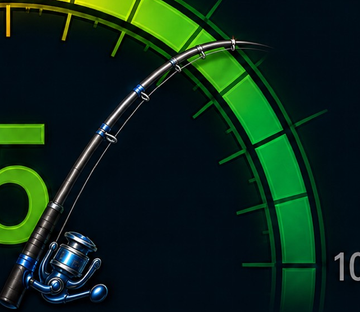
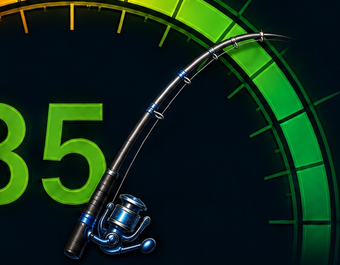
Add files via upload
Update

diff --git a/index.html b/index.html
@@ -751,84 +751,7 @@
       <article aria-label="Τρέχουσες καιρικές συνθήκες" class="weather-card widget" data-live-widget="weather" data-size="wide" data-widget="weather">
        <div class="weather-main">
         <div class="sun-wrap" data-condition="clear-day" data-field="weather.visual" id="weather-visual">
-         <svg aria-label="Ηλιοφάνεια πάνω από τη θάλασσα" class="premium-weather-scene premium-sun" role="img" viewbox="0 0 330 150">
-          <defs>
-           <lineargradient id="hero-sky" x1="0%" x2="0%" y1="0%" y2="100%">
-            <stop offset="0%" stop-color="#04162b">
-            </stop>
-            <stop offset="48%" stop-color="#09365a">
-            </stop>
-            <stop offset="100%" stop-color="#03111f">
-            </stop>
-           </lineargradient>
-           <lineargradient id="hero-mountain" x1="0%" x2="100%" y1="0%" y2="100%">
-            <stop offset="0%" stop-color="#476777">
-            </stop>
-            <stop offset="100%" stop-color="#07111a">
-            </stop>
-           </lineargradient>
-           <lineargradient id="hero-reflection" x1="0%" x2="0%" y1="0%" y2="100%">
-            <stop offset="0%" stop-color="#ffd858" stop-opacity=".8">
-            </stop>
-            <stop offset="100%" stop-color="#ffc738" stop-opacity="0">
-            </stop>
-           </lineargradient>
-           <filter height="260%" id="hero-sun-glow" width="260%" x="-80%" y="-80%">
-            <fegaussianblur result="blur" stddeviation="6">
-            </fegaussianblur>
-            <femerge>
-             <femergenode in="blur">
-             </femergenode>
-             <femergenode in="SourceGraphic">
-             </femergenode>
-            </femerge>
-           </filter>
-          </defs>
-          <rect fill="url(#hero-sky)" height="150" width="330" x="0" y="0">
-          </rect>
-          <g opacity=".82">
-           <path d="M0 104 38 79 73 98 111 68 144 97 187 76 230 99 276 72 330 104V124H0Z" fill="url(#hero-mountain)">
-           </path>
-           <path d="M7 104 42 87 73 104 112 81 145 105 188 89 230 106 278 84 326 106" fill="none" stroke="#b4d8e7" stroke-opacity=".55" stroke-width="2">
-           </path>
-          </g>
-          <rect fill="url(#fd-sea)" height="39" width="330" x="0" y="111">
-          </rect>
-          <g stroke="#4bb6e5" stroke-opacity=".45" stroke-width="1">
-           <path d="M0 120c32-7 62 7 94 0s63 6 95 0 63 7 95 0 31-1 46 1">
-           </path>
-           <path d="M0 132c32-7 62 7 94 0s63 6 95 0 63 7 95 0 31-1 46 1">
-           </path>
-           <path d="M0 143c32-7 62 7 94 0s63 6 95 0 63 7 95 0 31-1 46 1">
-           </path>
-          </g>
-          <ellipse cx="151" cy="125" fill="url(#hero-reflection)" opacity=".45" rx="37" ry="24">
-          </ellipse>
-          <g filter="url(#hero-sun-glow)">
-           <g stroke="#ffc137" stroke-linecap="round">
-            <line stroke-width="3" x1="151" x2="151" y1="4" y2="22">
-            </line>
-            <line stroke-width="3" x1="151" x2="151" y1="88" y2="106">
-            </line>
-            <line stroke-width="3" x1="101" x2="119" y1="55" y2="55">
-            </line>
-            <line stroke-width="3" x1="183" x2="201" y1="55" y2="55">
-            </line>
-            <line stroke-width="2.6" x1="115" x2="128" y1="19" y2="32">
-            </line>
-            <line stroke-width="2.6" x1="174" x2="187" y1="78" y2="91">
-            </line>
-            <line stroke-width="2.6" x1="115" x2="128" y1="91" y2="78">
-            </line>
-            <line stroke-width="2.6" x1="174" x2="187" y1="32" y2="19">
-            </line>
-           </g>
-           <circle cx="151" cy="55" fill="url(#fd-sun-disc)" r="31" stroke="#ffd263" stroke-width="1.5">
-           </circle>
-           <circle cx="151" cy="55" fill="none" r="36" stroke="#ffb21d" stroke-opacity=".25" stroke-width="4">
-           </circle>
-          </g>
-         </svg>
+         <img alt="Ηλιοφάνεια" class="premium-weather-scene premium-sun-photo" src="sun_scene.png"/>
         </div>
         <div class="weather-copy">
          <div class="weather-label" data-field="weather.label" id="weather-condition-label">
@@ -1721,6 +1644,7 @@
       <h2>
        FISHING SCORE
       </h2>
+      <img alt="Fishing Score 85" class="score-master-photo" src="score_master_card.png"/>
       <div aria-label="Fishing Score 85" aria-valuemax="100" aria-valuemin="0" aria-valuenow="85" class="score-gauge" data-score="85" id="fishing-score-gauge" role="meter">
        <svg aria-hidden="true" class="premium-gauge" role="img" viewbox="0 0 300 205">
         <defs>
@@ -2000,7 +1924,7 @@
      <div aria-label="Τεχνικές ψαρέματος" class="technique-grid technique-scroll" id="technique-track" data-scroll-axis="horizontal" data-extensible="true" role="list">
       <button aria-pressed="true" class="technique-card selected" data-rating="5" data-technique="spinning" role="listitem" type="button">
        <span class="technique-icon">
-        <img alt="" class="technique-photo" src="spinning.png"/>
+        <img alt="" class="technique-photo" src="tech_card_spinning.png"/>
        </span>
        <strong>
         SPINNING
@@ -2025,7 +1949,7 @@
       </button>
       <button aria-pressed="false" class="technique-card" data-rating="4" data-technique="lrf" role="listitem" type="button">
        <span class="technique-icon">
-        <img alt="" class="technique-photo" src="lrf.png"/>
+        <img alt="" class="technique-photo" src="tech_card_lrf.png"/>
        </span>
        <strong>
         LRF
@@ -2050,7 +1974,7 @@
       </button>
       <button aria-pressed="false" class="technique-card" data-rating="3" data-technique="english" role="listitem" type="button">
        <span class="technique-icon">
-        <img alt="" class="technique-photo" src="english.png"/>
+        <img alt="" class="technique-photo" src="tech_card_english.png"/>
        </span>
        <strong>
         ΕΓΓΛΕΖΙΚΟ
@@ -2075,7 +1999,7 @@
       </button>
       <button aria-pressed="false" class="technique-card" data-rating="3" data-technique="shore-jigging" role="listitem" type="button">
        <span class="technique-icon">
-        <img alt="" class="technique-photo" src="shore_jig.png"/>
+        <img alt="" class="technique-photo" src="tech_card_shore_jig.png"/>
        </span>
        <strong>
         SHORE JIGGING

diff --git a/style.css b/style.css
@@ -3225,3 +3225,141 @@ body.reference-layout-v3 .weather-side-metrics i,
 body.reference-layout-v3 .metric-row i {
   opacity: 0.95;
 }
+
+/* =========================================================
+   MASTER 100% PUSH — extracted assets + full cards
+========================================================= */
+
+/* Sun scene photo instead of SVG */
+body.reference-layout-v3 .premium-sun-photo,
+body.reference-layout-v3 img.premium-weather-scene {
+  width: 100% !important;
+  height: 72px !important;
+  object-fit: cover !important;
+  object-position: center center !important;
+  border-radius: 8px !important;
+  display: block !important;
+}
+
+/* Score: Master card photo primary */
+body.reference-layout-v3 .score-panel {
+  min-height: 148px !important;
+  max-height: none !important;
+  overflow: hidden !important;
+  display: flex !important;
+  flex-direction: column !important;
+  align-items: center !important;
+  padding: 4px !important;
+}
+body.reference-layout-v3 .score-panel > h2 {
+  display: none !important; /* title is in master photo */
+}
+body.reference-layout-v3 .score-master-photo {
+  width: 100% !important;
+  height: auto !important;
+  max-height: 140px !important;
+  object-fit: contain !important;
+  display: block !important;
+}
+body.reference-layout-v3 .score-panel .score-gauge,
+body.reference-layout-v3 .score-panel .score-caption,
+body.reference-layout-v3 .score-panel .score-stars,
+body.reference-layout-v3 .score-panel .score-rod-photo {
+  display: none !important; /* master photo includes all */
+}
+
+/* Techniques: full Master cards */
+body.reference-layout-v3 .technique-grid.technique-scroll {
+  display: flex !important;
+  gap: 6px !important;
+  justify-content: space-between !important;
+  overflow-x: auto !important;
+  padding: 2px 0 4px !important;
+}
+body.reference-layout-v3 .technique-card {
+  flex: 1 1 0 !important;
+  width: auto !important;
+  min-width: 0 !important;
+  min-height: 0 !important;
+  height: auto !important;
+  padding: 0 !important;
+  border: none !important;
+  background: transparent !important;
+  overflow: visible !important;
+}
+body.reference-layout-v3 .technique-card .technique-icon {
+  width: 100% !important;
+  height: auto !important;
+  min-height: 0 !important;
+  margin: 0 !important;
+  border-radius: 10px !important;
+  overflow: hidden !important;
+  background: transparent !important;
+}
+body.reference-layout-v3 .technique-card .technique-photo {
+  width: 100% !important;
+  height: auto !important;
+  min-height: 110px !important;
+  max-height: 130px !important;
+  object-fit: cover !important;
+  object-position: center top !important;
+  border-radius: 10px !important;
+  display: block !important;
+}
+/* Labels already in Master card image */
+body.reference-layout-v3 .technique-card > strong,
+body.reference-layout-v3 .technique-card .technique-stars,
+body.reference-layout-v3 .technique-card .technique-rating-label,
+body.reference-layout-v3 .technique-card .technique-dot {
+  display: none !important;
+}
+
+/* Header fish from Master */
+body.reference-layout-v3 .top-header .header-fish-asset.brand-fish {
+  width: 64px !important;
+  height: 40px !important;
+  object-fit: contain !important;
+}
+body.reference-layout-v3 .top-header .header-brand-lockup.brand-area {
+  grid-template-columns: 64px minmax(0, 1fr) 64px !important;
+}
+body.reference-layout-v3 .top-header .header-brand-title {
+  font-size: 11px !important;
+  white-space: nowrap !important;
+}
+
+/* Moon */
+body.reference-layout-v3 .moon-panel .moon-main {
+  min-height: 78px !important;
+  grid-template-columns: 70px 1fr !important;
+  gap: 10px !important;
+}
+body.reference-layout-v3 .moon-panel .master-moon-photo {
+  width: 70px !important;
+  height: 70px !important;
+  border-radius: 50% !important;
+  object-fit: cover !important;
+}
+body.reference-layout-v3 .moon-panel .moon-copy strong {
+  font-size: 24px !important;
+}
+body.reference-layout-v3 .moon-panel .moon-copy span {
+  font-size: 9px !important;
+  white-space: normal !important;
+}
+
+/* Activity fish */
+body.reference-layout-v3 .activity-fish-photo {
+  height: 88px !important;
+  object-fit: contain !important;
+}
+
+/* Score activity row height for master score card */
+body.reference-layout-v3 .score-activity-row {
+  height: auto !important;
+  min-height: 148px !important;
+}
+body.reference-layout-v3 .score-activity-row > .panel {
+  height: auto !important;
+  min-height: 148px !important;
+}
